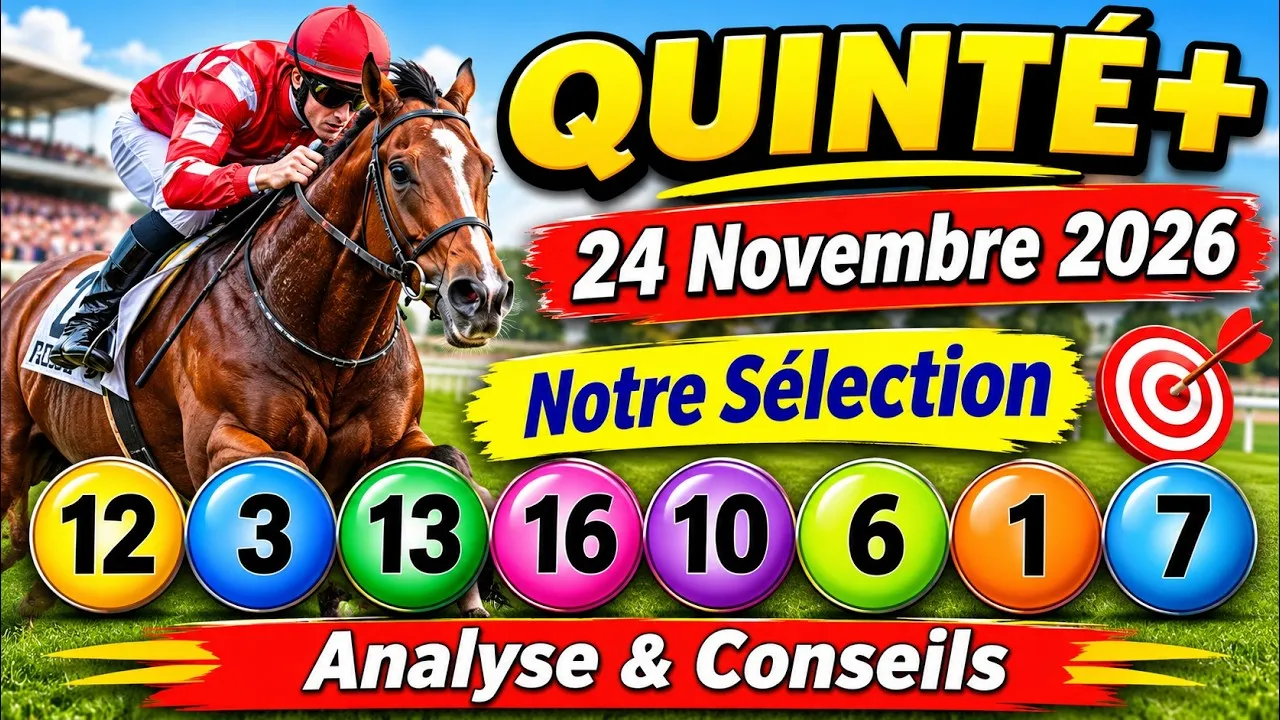
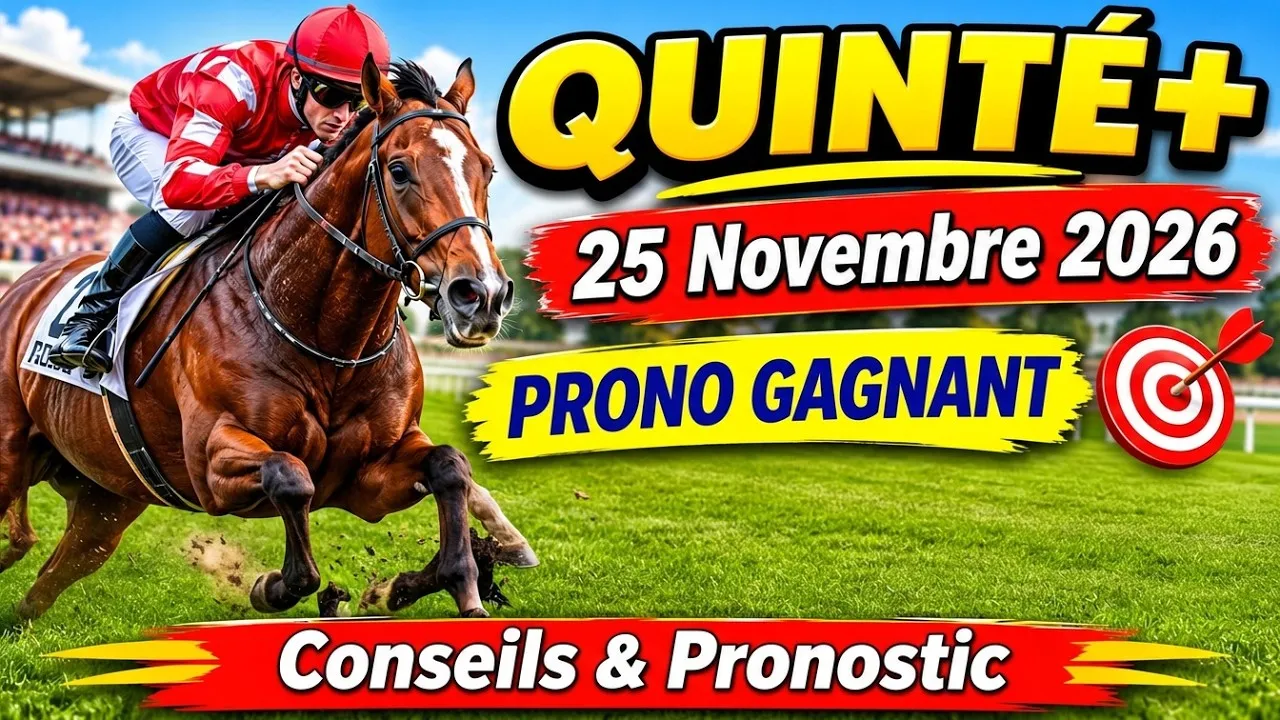
Daily 2026-11-25: Deauville Prix de Saint-Ceneri-le-Gerei - video + pronostics (arrivee J-1 nommes automatiquement)

diff --git a/index.html b/index.html
@@ -14,19 +14,19 @@
 <meta content='text/html; charset=UTF-8' http-equiv='Content-Type'/>
 
 <link href='https://bravoquinte.github.io/' rel='canonical'/>
-<link rel='preload' as='image' href='images/video-hero.webp?v=2026-11-24' fetchpriority='high'/>
+<link rel='preload' as='image' href='images/video-hero.webp?v=2026-11-25' fetchpriority='high'/>
 
 <meta content='Pronostics Quinté+ PMU du jour : analyse, partants, sélection de 8 chevaux et tickets adaptés à votre budget, toutes les courses PMU françaises.' name='description'/>
 <meta name="google-site-verification" content="81F6ZoG2NNo0SWlDfYOqQJUL-Onmow4khQoeZKvXJA8"/>
 <meta content='https://bravoquinte.github.io/' property='og:url'/>
-<meta property='og:image' content='https://bravoquinte.github.io/images/video-hero.webp?v=2026-11-24'/>
+<meta property='og:image' content='https://bravoquinte.github.io/images/video-hero.webp?v=2026-11-25'/>
 <meta property='og:image:width' content='1280'/>
 <meta property='og:image:height' content='720'/>
 <meta property='og:type' content='website'/>
 <meta property='og:locale' content='fr_FR'/>
 <meta property='og:site_name' content='Bravo Quinté'/>
 <meta name='twitter:card' content='summary_large_image'/>
-<meta name='twitter:image' content='https://bravoquinte.github.io/images/video-hero.webp?v=2026-11-24'/>
+<meta name='twitter:image' content='https://bravoquinte.github.io/images/video-hero.webp?v=2026-11-25'/>
 
 <meta content='Bravo Quinté' property='og:title'/>
 <meta content='Pronostics Quinté du jour : partants, analyses, sélections et tickets pour toutes les courses hippiques françaises.' property='og:description'/>
@@ -169,8 +169,8 @@ tr:hover td{background:#f0fdf4}
 </div>
 </div>
 <div class='hero-media'>
-<a href='https://youtu.be/Sxv6JS6W304' rel='noopener noreferrer' style='display:block;position:relative;padding-bottom:56.25%;background:#000;border-radius:8px;overflow:hidden;' target='_blank'>
-<img alt='Vidéo du jour' src='images/video-hero.webp?v=2026-11-24' width='1280' height='720' loading='eager' fetchpriority='high' style='position:absolute;top:0;left:0;width:100%;height:100%;object-fit:cover;'/>
+<a href='https://youtu.be/lqfYqmunOKw' rel='noopener noreferrer' style='display:block;position:relative;padding-bottom:56.25%;background:#000;border-radius:8px;overflow:hidden;' target='_blank'>
+<img alt='Vidéo du jour' src='images/video-hero.webp?v=2026-11-25' width='1280' height='720' loading='eager' fetchpriority='high' style='position:absolute;top:0;left:0;width:100%;height:100%;object-fit:cover;'/>
 <div style='position:absolute;top:50%;left:50%;transform:translate(-50%,-50%);width:64px;height:64px;background:rgba(255,0,0,0.9);border-radius:50%;display:flex;align-items:center;justify-content:center;'>
 <svg fill='white' height='28' viewBox='0 0 24 24' width='28'><polygon points='5,3 19,12 5,21'></polygon></svg>
 </div>
@@ -187,19 +187,19 @@ tr:hover td{background:#f0fdf4}
 <a data-page='accueil' href='#accueil'>Accueil</a><span>&#8250;</span>
 <span style='color:#0f172a;font-weight:500;'>Quinté du jour</span>
 </nav>
-<h2 class='font-display' style='font-size:2rem;color:#0f172a;margin:0 0 .5rem;'>Prix du Chateau de Bayeux &#8212; Quinté+</h2>
-<p style='color:#475569;margin:0 0 2rem;'>Deauville &#8226; Galop PSF &#8226; 2500m &#8226; Corde a droite &#8226; 16 partants</p>
+<h2 class='font-display' style='font-size:2rem;color:#0f172a;margin:0 0 .5rem;'>Prix de Saint-Céneri-le-Gérei &#8212; Quinté+</h2>
+<p style='color:#475569;margin:0 0 2rem;'>Deauville &#8226; Galop PSF &#8226; 1300m &#8226; Corde a droite &#8226; 16 partants</p>
 <div class='grid-4' style='margin-bottom:3rem;'>
 <div class='kpi-card'><p class='kpi-label'>Hippodrome</p><p class='kpi-value'>Deauville</p></div>
 <div class='kpi-card'><p class='kpi-label'>Type</p><p class='kpi-value'>Galop PSF</p></div>
-<div class='kpi-card'><p class='kpi-label'>Distance</p><p class='kpi-value'>2500m</p></div>
+<div class='kpi-card'><p class='kpi-label'>Distance</p><p class='kpi-value'>1300m</p></div>
 <div class='kpi-card'><p class='kpi-label'>Allocation</p><p class='kpi-value'>50900 &#8364;</p></div>
 </div>
 <section style='margin-bottom:3rem;'>
 <h2 class='font-display' style='font-size:1.75rem;margin:0 0 1rem;'>Analyse du scénario</h2>
 <div class='card' style='background:#f8fafc;'>
 <h3>Le scénario.</h3>
-<p>16 partants en plat PSF 2500m : Hasapiko, tenante du titre, face a Roulette en euphorie et Colgan Senora depuis le corde 1.</p>
+<p>Sprint PSF 1300m, 16 partants: Tanques et Guyon en regabilite, Saint Saens recent lauréat sur ce tracé.</p>
 </div>
 </section>
 <section style='margin-bottom:3rem;'>
@@ -208,22 +208,22 @@ tr:hover td{background:#f0fdf4}
 <table>
 <thead><tr><th>N°</th><th>Cheval</th><th>Jockey</th><th>Entraîneur</th><th>Poids</th><th>Statut</th></tr></thead>
 <tbody id='partants-tbody'>
-<tr><td>1</td><td style='color:#15803d;font-weight:500'>Cassius</td><td>M. Guyon</td><td>Brandt Racing</td><td>61,5 kg</td><td>&#8212;</td></tr>
-<tr><td>2</td><td>Chess</td><td>O. Wilson</td><td>Brandt Racing</td><td>58,5 kg</td><td>&#8212;</td></tr>
-<tr><td>3</td><td style='color:#15803d;font-weight:500'>Colgan Senora</td><td>D. Provost</td><td>Y. Barberot</td><td>58 kg</td><td>&#8212;</td></tr>
-<tr><td>4</td><td>Ram Sea</td><td>S. Pasquier</td><td>D. Mele</td><td>56 kg</td><td>&#8212;</td></tr>
-<tr><td>5</td><td>Ferdinand Premier</td><td>M. Grandin</td><td>N. Caullery</td><td>56 kg</td><td>&#8212;</td></tr>
-<tr><td>6</td><td style='color:#15803d;font-weight:500'>Misterwinner</td><td>A. Baron</td><td>C. Lotoux</td><td>56 kg</td><td>&#8212;</td></tr>
-<tr><td>7</td><td style='color:#15803d;font-weight:500'>Pretty Queen</td><td>R. Thomas</td><td>C. et Y. Lerner</td><td>56 kg</td><td>&#8212;</td></tr>
-<tr><td>8</td><td>Tamyz</td><td>A. Madamet</td><td>S. Wattel</td><td>55,5 kg</td><td>&#8212;</td></tr>
-<tr><td>9</td><td>Mononof</td><td>S. Kobayashi</td><td>G. Meury</td><td>55,5 kg</td><td>&#8212;</td></tr>
-<tr><td>10</td><td style='color:#15803d;font-weight:500'>Step Morning</td><td>A. Vilchien</td><td>A. Vilchien</td><td>55,5 kg</td><td>&#8212;</td></tr>
-<tr><td>11</td><td>Fearless Cheetah</td><td>J. Claudic</td><td>F. Bresson</td><td>55 kg</td><td>&#8212;</td></tr>
-<tr><td style='font-weight:700;color:#15803d'>12</td><td style='color:#15803d;font-weight:500'>Hasapiko</td><td>T. Bachelot</td><td>S. Wattel</td><td>55 kg</td><td><strong style='color:#16a34a;'>BASE</strong></td></tr>
-<tr><td>13</td><td style='color:#15803d;font-weight:500'>Roulette</td><td>C. Lecoeuvre</td><td>M. Seror</td><td>54 kg</td><td>&#8212;</td></tr>
-<tr><td>14</td><td>Natorspeed Essef</td><td>M. Protti</td><td>H.-A. Pantall</td><td>53,5 kg</td><td>&#8212;</td></tr>
-<tr><td>15</td><td>Sapristi</td><td>A. Crastus</td><td>N. Caullery</td><td>52,5 kg</td><td>&#8212;</td></tr>
-<tr><td>16</td><td style='color:#15803d;font-weight:500'>Starac</td><td>A. Lemaitre</td><td>F. Chappet</td><td>52 kg</td><td>&#8212;</td></tr>
+<tr><td>1</td><td>Weeken</td><td>T. Piccone</td><td>H.-A. Pantall</td><td>60 kg</td><td>&#8212;</td></tr>
+<tr><td>2</td><td>Tissimo</td><td>S. Pasquier</td><td>H.-A. Pantall</td><td>59,5 kg</td><td>&#8212;</td></tr>
+<tr><td>3</td><td>Félix aux Ormes</td><td>H. Journiac</td><td>Y. Barberot</td><td>58,5 kg</td><td>&#8212;</td></tr>
+<tr><td>4</td><td>Ozan</td><td>A. Lemaitre</td><td>G. Doleuze</td><td>58,5 kg</td><td>&#8212;</td></tr>
+<tr><td>5</td><td>Grand Scoop</td><td>I. Mendizabal</td><td>G. Mossé</td><td>58 kg</td><td>&#8212;</td></tr>
+<tr><td>6</td><td style='color:#15803d;font-weight:500'>Bourgoin</td><td>M. Grandin</td><td>F. Chappet</td><td>57,5 kg</td><td>&#8212;</td></tr>
+<tr><td>7</td><td style='color:#15803d;font-weight:500'>Saint Saens</td><td>M. Vélon</td><td>Y. Barberot</td><td>57 kg</td><td>&#8212;</td></tr>
+<tr><td>8</td><td style='color:#15803d;font-weight:500'>Awaiting Christmas</td><td>T. Bachelot</td><td>V. Luka</td><td>57 kg</td><td>&#8212;</td></tr>
+<tr><td>9</td><td style='color:#15803d;font-weight:500'>Omicrone</td><td>A. Hamelin</td><td>P. Groualle</td><td>56,5 kg</td><td>&#8212;</td></tr>
+<tr><td>10</td><td style='color:#15803d;font-weight:500'>Fire Rebel</td><td>F. Lefebvre</td><td>A. Spanu</td><td>56 kg</td><td>&#8212;</td></tr>
+<tr><td style='font-weight:700;color:#15803d'>11</td><td style='color:#15803d;font-weight:500'>Tanques</td><td>M. Guyon</td><td>É. Libaud</td><td>56 kg</td><td><strong style='color:#16a34a;'>BASE</strong></td></tr>
+<tr><td>12</td><td style='color:#15803d;font-weight:500'>Salalah</td><td>E. Hardouin</td><td>J. Andreu</td><td>55 kg</td><td>&#8212;</td></tr>
+<tr><td>13</td><td>Spirito</td><td>P. Le Digabel</td><td>P.-É. Dubois</td><td>55 kg</td><td>&#8212;</td></tr>
+<tr><td>14</td><td>Royalwood</td><td>F. Valle Skar</td><td>C. Barande Barbe</td><td>54,5 kg</td><td>&#8212;</td></tr>
+<tr><td>15</td><td style='color:#15803d;font-weight:500'>Apogeo</td><td>C. Lecoeuvre</td><td>M. Guarnieri</td><td>54,5 kg</td><td>&#8212;</td></tr>
+<tr><td>16</td><td>Paintello</td><td>P. Remoué</td><td>A. Budka</td><td>53,5 kg</td><td>&#8212;</td></tr>
 </tbody>
 </table>
 </div>
@@ -232,24 +232,24 @@ tr:hover td{background:#f0fdf4}
 <div>
 <h2 class='font-display' style='font-size:1.5rem;margin:0 0 1rem;'>Sélection (8)</h2>
 <ul id='selection-list'>
-<li><strong>12</strong> - Hasapiko&nbsp;<em style='color:#16a34a'>(BASE)</em></li>
-<li><strong>3</strong> - Colgan Senora</li>
-<li><strong>13</strong> - Roulette</li>
-<li><strong>16</strong> - Starac</li>
-<li><strong>10</strong> - Step Morning</li>
-<li><strong>6</strong> - Misterwinner</li>
-<li><strong>1</strong> - Cassius</li>
-<li><strong>7</strong> - Pretty Queen</li>
+<li><strong>11</strong> - Tanques&nbsp;<em style='color:#16a34a'>(BASE)</em></li>
+<li><strong>7</strong> - Saint Saens</li>
+<li><strong>12</strong> - Salalah</li>
+<li><strong>6</strong> - Bourgoin</li>
+<li><strong>9</strong> - Omicrone</li>
+<li><strong>15</strong> - Apogeo</li>
+<li><strong>10</strong> - Fire Rebel</li>
+<li><strong>8</strong> - Awaiting Christmas</li>
 </ul>
 </div>
 <div>
 <h2 class='font-display' style='font-size:1.5rem;margin:0 0 1rem;'>Top 5</h2>
 <div id='top5-list'>
-<div style="margin:.5rem 0;"><strong>12</strong> - Hasapiko (cote -)</div>
-<div style="margin:.5rem 0;"><strong>3</strong> - Colgan Senora (cote -)</div>
-<div style="margin:.5rem 0;"><strong>13</strong> - Roulette (cote -)</div>
-<div style="margin:.5rem 0;"><strong>16</strong> - Starac (cote -)</div>
-<div style="margin:.5rem 0;"><strong>10</strong> - Step Morning (cote -)</div>
+<div style="margin:.5rem 0;"><strong>11</strong> - Tanques (cote -)</div>
+<div style="margin:.5rem 0;"><strong>7</strong> - Saint Saens (cote -)</div>
+<div style="margin:.5rem 0;"><strong>12</strong> - Salalah (cote -)</div>
+<div style="margin:.5rem 0;"><strong>6</strong> - Bourgoin (cote -)</div>
+<div style="margin:.5rem 0;"><strong>9</strong> - Omicrone (cote -)</div>
 </div>
 </div>
 </section>
@@ -259,22 +259,22 @@ tr:hover td{background:#f0fdf4}
 <article class='ticket-card' style='border-color:#22c55e;'>
 <div class='ticket-header' style='background:#22c55e;'><h3>Petit budget</h3><p style='margin:0;font-size:.875rem;'>&#8776;5 &#8364;</p></div>
 <div class='ticket-body'>
-<div class='ticket-line'><h4>Couplé placé</h4><code>12 / 3 / 13</code></div>
+<div class='ticket-line'><h4>Couplé placé</h4><code>11 / 7 / 12</code></div>
 <p style='margin:.5rem 0 0;color:#64748b;font-size:.875rem;'>3 tickets &#215; 1,50 &#8364; = 4,50 &#8364;</p>
 </div>
 </article>
 <article class='ticket-card' style='border-color:#f59e0b;'>
 <div class='ticket-header' style='background:#f59e0b;'><h3>Budget moyen</h3><p style='margin:0;font-size:.875rem;'>&#8776;15 &#8364;</p></div>
 <div class='ticket-body'>
-<div class='ticket-line'><h4>Quinté+ simple</h4><code>12 &#8212; 3 &#8212; 13 &#8212; 16 &#8212; 10</code></div>
-<div class='ticket-line'><h4>Couplé base</h4><code>12 / 3 / 13</code></div>
+<div class='ticket-line'><h4>Quinté+ simple</h4><code>11 &#8212; 7 &#8212; 12 &#8212; 6 &#8212; 9</code></div>
+<div class='ticket-line'><h4>Couplé base</h4><code>11 / 7 / 12</code></div>
 <p style='margin:.5rem 0 0;color:#64748b;font-size:.875rem;'>&#8776; 15 &#8364;</p>
 </div>
 </article>
 <article class='ticket-card' style='border-color:#3b82f6;'>
 <div class='ticket-header' style='background:#3b82f6;'><h3>Ambitieux</h3><p style='margin:0;font-size:.875rem;'>&#8776;70 &#8364;</p></div>
 <div class='ticket-body'>
-<div class='ticket-line'><h4>Multi 4/5/6 (8 chevaux)</h4><code>12 &#8212; 3 &#8212; 13 &#8212; 16 &#8212; 10 &#8212; 6 &#8212; 1 &#8212; 7</code></div>
+<div class='ticket-line'><h4>Multi 4/5/6 (8 chevaux)</h4><code>11 &#8212; 7 &#8212; 12 &#8212; 6 &#8212; 9 &#8212; 15 &#8212; 10 &#8212; 8</code></div>
 <p style='margin:.5rem 0 0;color:#64748b;font-size:.875rem;'>35 tickets &#215; 2 &#8364; &#8776; 70 &#8364;</p>
 </div>
 </article>
@@ -412,10 +412,10 @@ window.__BRAVO_PAGE_TYPE='';
 (function(){
 'use strict';
 
-var chevaux=[{num:1,nom:"Cassius",driver:"M. Guyon",entraineur:"Brandt Racing",musique:"-",cote:"-"},{num:2,nom:"Chess",driver:"O. Wilson",entraineur:"Brandt Racing",musique:"-",cote:"-"},{num:3,nom:"Colgan Senora",driver:"D. Provost",entraineur:"Y. Barberot",musique:"-",cote:"-"},{num:4,nom:"Ram Sea",driver:"S. Pasquier",entraineur:"D. Mele",musique:"-",cote:"-"},{num:5,nom:"Ferdinand Premier",driver:"M. Grandin",entraineur:"N. Caullery",musique:"-",cote:"-"},{num:6,nom:"Misterwinner",driver:"A. Baron",entraineur:"C. Lotoux",musique:"-",cote:"-"},{num:7,nom:"Pretty Queen",driver:"R. Thomas",entraineur:"C. et Y. Lerner",musique:"-",cote:"-"},{num:8,nom:"Tamyz",driver:"A. Madamet",entraineur:"S. Wattel",musique:"-",cote:"-"},{num:9,nom:"Mononof",driver:"S. Kobayashi",entraineur:"G. Meury",musique:"-",cote:"-"},{num:10,nom:"Step Morning",driver:"A. Vilchien",entraineur:"A. Vilchien",musique:"-",cote:"-"},{num:11,nom:"Fearless Cheetah",driver:"J. Claudic",entraineur:"F. Bresson",musique:"-",cote:"-"},{num:12,nom:"Hasapiko",driver:"T. Bachelot",entraineur:"S. Wattel",musique:"-",cote:"-"},{num:13,nom:"Roulette",driver:"C. Lecoeuvre",entraineur:"M. Seror",musique:"-",cote:"-"},{num:14,nom:"Natorspeed Essef",driver:"M. Protti",entraineur:"H.-A. Pantall",musique:"-",cote:"-"},{num:15,nom:"Sapristi",driver:"A. Crastus",entraineur:"N. Caullery",musique:"-",cote:"-"},{num:16,nom:"Starac",driver:"A. Lemaitre",entraineur:"F. Chappet",musique:"-",cote:"-"}];
+var chevaux=[{num:1,nom:"Weeken",driver:"T. Piccone",entraineur:"H.-A. Pantall",musique:"-",cote:"-"},{num:2,nom:"Tissimo",driver:"S. Pasquier",entraineur:"H.-A. Pantall",musique:"-",cote:"-"},{num:3,nom:"Félix aux Ormes",driver:"H. Journiac",entraineur:"Y. Barberot",musique:"-",cote:"-"},{num:4,nom:"Ozan",driver:"A. Lemaitre",entraineur:"G. Doleuze",musique:"-",cote:"-"},{num:5,nom:"Grand Scoop",driver:"I. Mendizabal",entraineur:"G. Mossé",musique:"-",cote:"-"},{num:6,nom:"Bourgoin",driver:"M. Grandin",entraineur:"F. Chappet",musique:"-",cote:"-"},{num:7,nom:"Saint Saens",driver:"M. Vélon",entraineur:"Y. Barberot",musique:"-",cote:"-"},{num:8,nom:"Awaiting Christmas",driver:"T. Bachelot",entraineur:"V. Luka",musique:"-",cote:"-"},{num:9,nom:"Omicrone",driver:"A. Hamelin",entraineur:"P. Groualle",musique:"-",cote:"-"},{num:10,nom:"Fire Rebel",driver:"F. Lefebvre",entraineur:"A. Spanu",musique:"-",cote:"-"},{num:11,nom:"Tanques",driver:"M. Guyon",entraineur:"É. Libaud",musique:"-",cote:"-"},{num:12,nom:"Salalah",driver:"E. Hardouin",entraineur:"J. Andreu",musique:"-",cote:"-"},{num:13,nom:"Spirito",driver:"P. Le Digabel",entraineur:"P.-É. Dubois",musique:"-",cote:"-"},{num:14,nom:"Royalwood",driver:"F. Valle Skar",entraineur:"C. Barande Barbe",musique:"-",cote:"-"},{num:15,nom:"Apogeo",driver:"C. Lecoeuvre",entraineur:"M. Guarnieri",musique:"-",cote:"-"},{num:16,nom:"Paintello",driver:"P. Remoué",entraineur:"A. Budka",musique:"-",cote:"-"}];
 
-var selection=[12,3,13,16,10,6,1,7];
-var top5=[12,3,13,16,10];
+var selection=[11,7,12,6,9,15,10,8];
+var top5=[11,7,12,6,9];
 
 function renderPartants(){
   var el=document.getElementById('partants-tbody');
@@ -423,7 +423,7 @@ function renderPartants(){
   var h='';
   for(var i=0;i<chevaux.length;i++){
     var c=chevaux[i];
-    h+='<tr><td'+(c.num===12?' style="font-weight:700;color:#15803d"':'')+'>'+(c.num)+'</td>';
+    h+='<tr><td'+(c.num===11?' style="font-weight:700;color:#15803d"':'')+'>'+(c.num)+'</td>';
     h+='<td'+(selection.indexOf(c.num)!==-1?' style="color:#15803d;font-weight:500"':'')+'>'+c.nom+'</td>';
     h+='<td>'+c.driver+'</td><td>'+c.entraineur+'</td><td>'+c.cote+'</td>';
     h+='<td>'+(c.statut?'<span class="'+c.cls+'">'+c.statut+'</span>':'&#8212;')+'</td></tr>';
@@ -486,7 +486,8 @@ function renderPricing(){
 
 function fmtDate(iso){if(!iso)return'';try{return new Date(iso).toLocaleDateString('fr-FR',{day:'numeric',month:'long',year:'numeric'});}catch(e){return iso;}}
 
-var BLOG_POSTS=[{title:"Pronostic Quinté Deauville 24 novembre 2026 - Prix du Chateau de Bayeux",date:"2026-11-24",slug:"pronostic-quinte-deauville-24-novembre",excerpt:"Analyse complète du Quinté du jour : Prix du Chateau de Bayeux à Deauville.",img:"images/quinte-2026-11-24.webp"},
+var BLOG_POSTS=[{title:"Pronostic Quinté Deauville 25 novembre 2026 - Prix de Saint-Céneri-le-Gérei",date:"2026-11-25",slug:"pronostic-quinte-deauville-25-novembre",excerpt:"Analyse complète du Quinté du jour : Prix de Saint-Céneri-le-Gérei à Deauville.",img:"images/quinte-2026-11-25.webp"},
+{title:"Pronostic Quinté Deauville 24 novembre 2026 - Prix du Chateau de Bayeux",date:"2026-11-24",slug:"pronostic-quinte-deauville-24-novembre",excerpt:"Analyse complète du Quinté du jour : Prix du Chateau de Bayeux à Deauville.",img:"images/quinte-2026-11-24.webp"},
 {title:"Pronostic Quinté Vincennes 23 novembre 2026 - Prix de Montignac-Charente",date:"2026-11-23",slug:"pronostic-quinte-vincennes-23-novembre",excerpt:"Analyse complète du Quinté du jour : Prix de Montignac-Charente à Vincennes.",img:"images/quinte-2026-11-23.webp"},
 {title:"Pronostic Quinté Paris-Vincennes 22 novembre 2026 - Prix de Bretagne-Amérique Races Q1",date:"2026-11-22",slug:"pronostic-quinte-vincennes-22-novembre",excerpt:"Analyse complète du Quinté du jour : Prix de Bretagne-Amérique Races Q1 à Paris-Vincennes.",img:"images/quinte-2026-11-22.webp"},
 {title:"Pronostic Quinté Auteuil 21 novembre 2026 - Prix Marc Antony",date:"2026-11-21",slug:"pronostic-quinte-auteuil-21-novembre",excerpt:"Analyse complète du Quinté du jour : Prix Marc Antony à Auteuil.",img:"images/quinte-2026-11-21.webp"},
@@ -542,7 +543,7 @@ var BLOG_POSTS=[{title:"Pronostic Quinté Deauville 24 novembre 2026 - Prix du C
 {title:"Pronostic Quinté Auteuil 6 octobre 2026 - Prix Guillaume de Pracomtal",date:"2026-10-06",slug:"pronostic-quinte-auteuil-6-octobre",excerpt:"Analyse complète du Quinté du jour : Prix Guillaume de Pracomtal à Auteuil.",img:"images/quinte-2026-10-06.webp"},
 {title:"Pronostic Quinté Enghien 5 octobre 2026 - Prix des Buttes Chaumont",date:"2026-10-05",slug:"pronostic-quinte-enghien-5-octobre",excerpt:"Analyse complète du Quinté du jour : Prix des Buttes Chaumont à Enghien.",img:"images/quinte-2026-10-05.webp"},
 {title:"Pronostic Quinté ParisLongchamp 4 octobre 2026 - Qatar Prix de l’Arc de Triomphe",date:"2026-10-04",slug:"pronostic-quinte-arc-de-triomphe-4-octobre",excerpt:"Analyse complète du Quinté du jour : Qatar Prix de l’Arc de Triomphe à ParisLongchamp.",img:"images/quinte-2026-10-04.jpg"},
-{title:"Pronostic Quinté ParisLongchamp 3 octobre 2026 - Qatar Prix de la Place des Vosges",date:"2026-10-03",slug:"pronostic-quinte-longchamp-3-octobre",excerpt:"Analyse complète du Quinté du jour : Qatar Prix de la Place des Vosges à ParisLongchamp.",img:"images/video-hero.webp?v=2026-11-24"},
+{title:"Pronostic Quinté ParisLongchamp 3 octobre 2026 - Qatar Prix de la Place des Vosges",date:"2026-10-03",slug:"pronostic-quinte-longchamp-3-octobre",excerpt:"Analyse complète du Quinté du jour : Qatar Prix de la Place des Vosges à ParisLongchamp.",img:"images/video-hero.webp?v=2026-11-25"},
 {title:"Pronostic Quinté Vincennes 2 octobre 2026 - Prix Ludovica",date:"2026-10-02",slug:"pronostic-quinte-vincennes-2-octobre",excerpt:"Analyse complète du Quinté du jour : Prix Ludovica à Vincennes.",img:"images/photo7.webp"},
 {title:"Pronostic Quinté du jour : analyse, bases, outsiders et conseils",date:"2026-10-01",slug:"pronostic-quinte-du-jour-analyse-bases-outsiders",excerpt:"Méthode complète pour analyser le Quinté du jour : base, favoris et outsiders.",img:"images/rending-3.webp"},
 {title:"Pronostic Quinté Auteuil 1 octobre 2026 - Prix Céréaliste",date:"2026-10-01",slug:"pronostic-quinte-auteuil-1er-octobre",excerpt:"Analyse complète du Quinté du jour : Prix Céréaliste à Auteuil.",img:"images/photo8.webp"},
@@ -585,6 +586,7 @@ function showBlogPost(idx){
 }
 
 var RESULTATS=[
+{date:"2026-11-24",hippo:"Deauville",course:"Prix du Chateau de Bayeux",discipline:"Galop PSF",dist:"2500m",arrivee:[{n:16,nom:"STARAC"},{n:8,nom:"TAMYZ"},{n:3,nom:"COLGAN SENORA"},{n:2,nom:"CHESS"},{n:1,nom:"CASSIUS"}],rapports:"https://www.pmu.fr/turf/"},
 {date:"2026-11-23",hippo:"Vincennes",course:"Prix de Montignac-Charente",discipline:"Trot Attelle",dist:"2700m",arrivee:[{n:15,nom:"Indy Rock"},{n:13,nom:"Homard Land"},{n:3,nom:"Chitchat"},{n:16,nom:"Ibiza Bella"},{n:9,nom:"Jongleuse de Lune"}],rapports:"https://www.pmu.fr/turf/"},
 {date:"2026-11-22",hippo:"Vincennes",course:"Prix de Bretagne - Amerique Races Q1",discipline:"Trot Attelé",dist:"2700m",arrivee:[{n:14,nom:"Inmarosa"},{n:10,nom:"Free Time Jepson"},{n:8,nom:"Keep Going"},{n:1,nom:"Kuiper"},{n:16,nom:"Frank Gio"}],rapports:"https://www.pmu.fr/turf/"},
 {date:"2026-11-21",hippo:"Auteuil",course:"Prix Marc Antony",discipline:"Haies",dist:"3900m",arrivee:[{n:12,nom:"Blida"},{n:8,nom:"Pareil Pareil"},{n:1,nom:"Silaway"},{n:11,nom:"Elle a Tout Ca"},{n:5,nom:"Louminos"}],rapports:"https://www.pmu.fr/turf/"},

diff --git a/resultats.html b/resultats.html
@@ -26,8 +26,9 @@
 <style>:root{--primary:#16a34a;--primary-dark:#15803d;--dark:#0f172a;--gray:#64748b;--border:#e2e8f0}body{font-family:'Inter',system-ui,sans-serif;margin:0;padding:0;color:var(--dark);background:#fff;line-height:1.6}.container{max-width:900px;margin:0 auto;padding:1.5rem}h1{font-size:2rem;margin:1rem 0}h2{font-size:1.4rem;margin:2rem 0 .5rem;border-bottom:2px solid var(--primary);padding-bottom:.4rem}.meta{color:var(--gray);font-size:.9rem;margin-bottom:1.5rem}.card{background:#f8fafc;border:1px solid var(--border);border-radius:12px;padding:1.5rem;margin:1rem 0}.btn{display:inline-block;background:var(--primary);color:#fff;padding:.75rem 1.5rem;border-radius:8px;text-decoration:none;font-weight:600;margin:1rem 0 0}a{color:var(--primary)}table{width:100%;border-collapse:collapse;margin:1rem 0;font-size:.9rem}th{background:var(--dark);color:#fff;padding:.75rem;text-align:left}td{padding:.75rem;border-bottom:1px solid var(--border)}tr:nth-child(even){background:#f8fafc}footer{text-align:center;padding:2rem;color:var(--gray);font-size:.85rem;border-top:1px solid var(--border);margin-top:2rem}.stat{display:inline-block;background:#f0fdf4;border:2px solid #86efac;border-radius:12px;padding:1rem 1.5rem;text-align:center;margin:.5rem}.stat-value{font-size:2rem;font-weight:700;color:var(--primary);margin:0}.stat-label{font-size:.85rem;color:var(--gray);margin:0}.ok{color:#16a34a}.miss{color:#dc2626}.wait{color:#d97706}.badge{display:inline-block;font-size:.75rem;font-weight:700;padding:.25rem .5rem;border-radius:9999px}.badge-ok{background:#dcfce7;color:#15803d}.badge-wait{background:#fef3c7;color:#92400e}</style></head><body>
 <div class="container">
 <h1>Résultats des courses</h1>
-<p class="meta">Arrivées officielles des 57 Quintés+ pronostiqués. Sources : PMU.fr</p>
+<p class="meta">Arrivées officielles des 58 Quintés+ pronostiqués. Sources : PMU.fr</p>
 <div class="card"><table><thead><tr><th>Date</th><th>Hippodrome</th><th>Course</th><th>Discipline</th><th>Distance</th><th>Arrivée</th></tr></thead><tbody>
+<tr><td>2026-11-24</td><td>Deauville</td><td>Prix du Chateau de Bayeux</td><td>Galop PSF</td><td>2500m</td><td>16. STARAC - 8. TAMYZ - 3. COLGAN SENORA - 2. CHESS - 1. CASSIUS</td></tr>
 <tr><td>2026-11-23</td><td>Vincennes</td><td>Prix de Montignac-Charente</td><td>Trot Attelle</td><td>2700m</td><td>15. Indy Rock - 13. Homard Land - 3. Chitchat - 16. Ibiza Bella - 9. Jongleuse de Lune</td></tr>
 <tr><td>2026-11-22</td><td>Vincennes</td><td>Prix de Bretagne - Amerique Races Q1</td><td>Trot Attelé</td><td>2700m</td><td>14. Inmarosa - 10. Free Time Jepson - 8. Keep Going - 1. Kuiper - 16. Frank Gio</td></tr>
 <tr><td>2026-11-21</td><td>Auteuil</td><td>Prix Marc Antony</td><td>Haies</td><td>3900m</td><td>12. Blida - 8. Pareil Pareil - 1. Silaway - 11. Elle a Tout Ca - 5. Louminos</td></tr>
